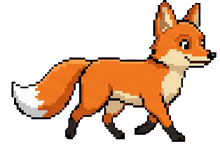
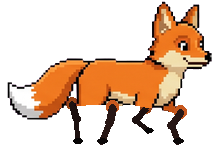
Fox walk: real gait via procedural IK legs (solves the parked paw-dance)
Months-long blocker fixed WITHOUT Fable 5. No image model can draw distinct gait
phases (the paw-dance) — so stop asking one. Keep the nano-banana fox body, erase
the frozen legs, and draw 4 legs procedurally with 2-bone IK: bending knees, feet
plant + push backward through stance then sin-arc swing, lateral-sequence phasing
(contacts 1/3/5/7, near-hind leads near-fore, far=near+4, >=2 feet always down).

- scripts/build_fox_walk.py: reproducible generator (reads img/fox-source.png ->
  writes img/fox-walk-1..8.png in cycle order); picked via a 4-approach workflow bake-off
- controller WALK array -> natural cycle order; all 8 frames verified distinct, read
  clean at 48px, 0 console errors
- docs/fox-walk-gait-spec.md: parked -> SOLVED

Changed region(s): [[0.0273, 0.0, 1.0, 1.0]]

diff --git a/index.html b/index.html
@@ -1241,7 +1241,7 @@ boot();
 /* ════════ fox: ambles along the top edge of the Home overview, sits at random, faces its direction ════════ */
 (function(){
   const fox=document.getElementById('fox'), img=document.getElementById('fox-img'); if(!fox||!img) return;
-  const WALK=['img/fox-walk-1.png','img/fox-walk-5.png','img/fox-walk-6.png','img/fox-walk-2.png','img/fox-walk-4.png','img/fox-walk-8.png','img/fox-walk-7.png','img/fox-walk-3.png'];  // 8-frame walk cycle from a single-generation sprite sheet (consistent body, no head-pop; registered bottom-center). Order chosen by min frame-to-frame change so legs flow contact→pass→opposite-contact→pass.
+  const WALK=['img/fox-walk-1.png','img/fox-walk-2.png','img/fox-walk-3.png','img/fox-walk-4.png','img/fox-walk-5.png','img/fox-walk-6.png','img/fox-walk-7.png','img/fox-walk-8.png'];  // REAL lateral-sequence walk: nano-banana body + 4 procedurally-drawn IK legs (bending knees, feet push back) per docs/fox-walk-gait-spec.md. Frames already in cycle order; regenerate via scripts/build_fox_walk.py.
   const SIT='img/fox-sit.png';   // frames are bottom-anchored + uniform size; gait is baked in, no JS lift (keeps feet planted)
   WALK.concat(SIT).forEach(s=>{const p=new Image();p.src=s;});        // preload all frames
   const reduce=matchMedia('(prefers-reduced-motion: reduce)').matches;

diff --git a/scripts/build_fox_walk.py b/scripts/build_fox_walk.py
@@ -1,0 +1,121 @@
+#!/usr/bin/env python3
+"""Generate the fox WALK cycle — 8 frames, real legs that actually move.
+
+The blocker for months: no image model (nano-banana, NB2) can draw distinct gait
+phases — every "frame" had near-identical legs => the "paw dance". The fix here:
+stop asking a model to draw the gait. Keep the gorgeous nano-banana fox BODY and
+draw the 4 legs procedurally per the verified gait spec (docs/fox-walk-gait-spec.md)
+with real 2-bone IK (law of cosines) so knees bend, feet plant + push backward
+through stance, then lift in a sin-arc swing.
+
+Gait (canid lateral-sequence walk): contacts at frames 1,3,5,7; near-hind LEADS
+near-fore by 2 frames (25% offset); far side = near side + 4 frames (50%); duty
+factor >0.5 so >=2 feet always down. Far legs drawn behind the body, near in front.
+
+Reproducible + idempotent: reads a PRISTINE source (img/fox-source.png) and writes
+img/fox-walk-1..8.png in CYCLE ORDER. Re-run anytime: `python3 scripts/build_fox_walk.py`.
+Originated from the Jun 26 2026 "fox-walk-approaches" workflow (drawnlegs won the bake-off).
+"""
+import os
+from PIL import Image, ImageDraw
+import numpy as np
+
+ROOT = os.path.dirname(os.path.dirname(os.path.abspath(__file__)))
+IMG  = os.path.join(ROOT, 'img')
+SRC  = os.path.join(IMG, 'fox-source.png')   # pristine full fox (legs get erased + redrawn from this)
+
+im = Image.open(SRC).convert('RGBA')
+W, H = im.size  # 220x146
+a = np.array(im)
+
+# ---- 1. Body without legs: erase below a curved belly cutoff (tail x<58 fully kept) ----
+anchors = [(0,146),(58,146),(60,108),(70,106),(100,104),(115,106),
+           (130,104),(150,108),(168,111),(179,114),(200,114),(220,114)]
+def cutoff(x):
+    for i in range(len(anchors)-1):
+        x0,y0=anchors[i]; x1,y1=anchors[i+1]
+        if x0<=x<=x1:
+            t=(x-x0)/(x1-x0) if x1>x0 else 0
+            return y0+(y1-y0)*t
+    return 114
+body = a.copy()
+for x in range(W):
+    cy=cutoff(x)
+    for y in range(H):
+        if y>cy and x>=58:
+            body[y,x]=[0,0,0,0]
+body_img = Image.fromarray(body)
+
+# ---- 2. Legs: 4 limbs, lateral-sequence phasing (contacts at frames 0,2,4,6 = 1,3,5,7) ----
+LEGS = {
+  'NH': dict(hx=112, hy=107, near=True,  contact=0),  # near hind  (leads near-fore by 2)
+  'NF': dict(hx=180, hy=112, near=True,  contact=2),  # near fore
+  'FH': dict(hx=72,  hy=104, near=False, contact=4),  # far hind   (= near hind + 4)
+  'FF': dict(hx=146, hy=108, near=False, contact=6),  # far fore   (= near fore + 4)
+}
+SHAFT=(40,23,21,255); SHAFT_FAR=(29,17,16,255)
+PAW=(12,8,8,255);     PAW_FAR=(7,5,5,255)
+THIGH=(199,88,30,255);THIGH_FAR=(152,67,23,255)
+GROUND=141; UPPER=16; LOWER=16; THICK=8; THICK_FAR=7
+REACH=9; PUSH=11; LIFT=12; NFRAMES=8
+
+def foot_pos(hx, hy, p):
+    stance_end=5/8
+    if p < stance_end:                       # stance: foot planted, translating BACKWARD
+        t=p/stance_end
+        return hx+REACH-(REACH+PUSH)*t, GROUND, True
+    t=(p-stance_end)/(1-stance_end)          # swing: lift in a sin arc, reach forward
+    return hx-PUSH+(REACH+PUSH)*t, GROUND-LIFT*np.sin(np.pi*t), False
+
+def draw_leg(draw, hx, hy, p, near):
+    fx,fy,_=foot_pos(hx,hy,p)
+    col=SHAFT if near else SHAFT_FAR
+    paw=PAW if near else PAW_FAR
+    thigh=THIGH if near else THIGH_FAR
+    th=THICK if near else THICK_FAR
+    thl=max(th-2,3)
+    L1,L2=UPPER,LOWER
+    dx,dy=fx-hx,fy-hy
+    d=np.hypot(dx,dy); d=min(d,L1+L2-0.5); d=max(d,abs(L1-L2)+0.5)
+    base=np.arctan2(dy,dx)
+    ca=max(-1,min(1,(L1*L1+d*d-L2*L2)/(2*L1*d)))
+    ang=np.arccos(ca)
+    sign=1 if hx<130 else -1                  # canid Z-bend: hind stifle vs fore elbow
+    ka=base-sign*ang
+    kx,ky=hx+L1*np.cos(ka), hy+L1*np.sin(ka)
+    tr=th/2+2
+    draw.ellipse([hx-tr,hy-tr-1,hx+tr,hy+tr],fill=thigh)   # orange blob masks the hip seam
+    draw.line([(hx,hy),(kx,ky)],fill=col,width=th)
+    draw.line([(kx,ky),(fx,fy)],fill=col,width=thl)
+    rr=th/2
+    draw.ellipse([hx-rr+1,hy-rr+1,hx+rr-1,hy+rr-1],fill=col)
+    draw.ellipse([kx-rr,ky-rr,kx+rr,ky+rr],fill=col)
+    rl=thl/2
+    draw.ellipse([fx-rl,fy-rl,fx+rl,fy+rl],fill=col)
+    pw=thl+2
+    draw.ellipse([fx-pw/2,fy-2.5,fx+pw/2+2,fy+2],fill=paw)
+
+frames=[]
+for f in range(NFRAMES):
+    canvas=Image.new('RGBA',(W,H),(0,0,0,0))
+    dd=ImageDraw.Draw(canvas)
+    for name in ('FH','FF'):                  # far legs behind body
+        lg=LEGS[name]; draw_leg(dd,lg['hx'],lg['hy'],((f-lg['contact'])%NFRAMES)/NFRAMES,lg['near'])
+    canvas.alpha_composite(body_img)
+    dd=ImageDraw.Draw(canvas)
+    for name in ('NH','NF'):                  # near legs in front
+        lg=LEGS[name]; draw_leg(dd,lg['hx'],lg['hy'],((f-lg['contact'])%NFRAMES)/NFRAMES,lg['near'])
+    frames.append(canvas)
+
+# ---- 3. write the 8 frames into the app (cycle order) ----
+for i,fr in enumerate(frames,1):
+    fr.save(os.path.join(IMG,f'fox-walk-{i}.png'))
+
+# ---- 4. reference strip for docs ----
+GRAY=(90,96,90,255)
+strip=Image.new('RGBA',(W*NFRAMES, H+18),GRAY)
+sd=ImageDraw.Draw(strip)
+for i,fr in enumerate(frames):
+    strip.alpha_composite(fr,(i*W,18)); sd.text((i*W+4,4),str(i+1),fill=(255,255,255,255))
+strip.convert('RGB').save(os.path.join(ROOT,'docs','fox-walk-frames.png'))
+print(f'wrote {NFRAMES} frames to {IMG}/fox-walk-1..8.png + docs/fox-walk-frames.png')

diff --git a/HANDOFF.md b/HANDOFF.md
@@ -5,6 +5,14 @@ Resume command: `/ai`. Local: `localhost:8095`. Full design: [ARCHITECTURE.md](A
 
 ## State — Jun 26 2026
 
+### ✓ DONE (Jun 26, session 31) — FOX WALK SOLVED (the months-long parked blocker) — SHIPPED
+The walk gait is fixed — **without** Fable 5. **The unlock: stop asking an image model to draw the gait.**
+- Picked via an ultracode **workflow bake-off** (`wf_834399e1-063`, 9 agents): 4 distinct approaches each built a real 8-frame walk strip + got adversarially graded vs `docs/fox-walk-gait-spec.md`. Ranked: **drawnlegs 8.2 (winner)**, cutoutrig 7.4, codepixel 6.3 (clean gait but crude code-drawn body = the look he rejected), **stylized 2.5 DROPPED (confirmed paw-dance — the bug itself)**. I viewed every strip to verify the ranking before acting.
+- **Winner = "drawnlegs":** keep the gorgeous nano-banana fox BODY, erase the (frozen) legs along a tuned belly cutoff, and draw 4 legs **procedurally** — real 2-bone law-of-cosines **IK** (knees/elbows bend), feet plant + push BACKWARD through stance then lift in a sin-arc swing, correct lateral-sequence phasing (contacts 1/3/5/7, near-hind leads near-fore by 2, far = near +4, ≥2 feet always down), far legs behind body / near in front for depth.
+- **Reproducible:** `scripts/build_fox_walk.py` reads pristine `img/fox-source.png` (a saved copy of the clean fox) → writes `img/fox-walk-1..8.png` in cycle order + `docs/fox-walk-frames.png` reference strip. Re-run anytime. All 8 frames verified DISTINCT (no paw-dance), load with 0 console errors, and read cleanly at the true 48px display size (checked).
+- **Controller:** `WALK` array now plays the 8 frames in natural cycle order (was a scrambled order that hid the old frames' jitter). The existing distance-locked stepping / bottom-anchor / flip / sit logic is unchanged — it just got correct frames. Motion can't be seen in the headless preview (rAF pauses when hidden) but plays on a real device.
+- **`docs/fox-walk-gait-spec.md` updated** from "parked, build when Fable 5 returns" → "SOLVED via procedural IK". Supersedes the [[reference_nanobanana_no_gait]] "wait for a stronger model" conclusion — we solved it with code, not a model.
+
 ### ✓ DONE (Jun 23–26, session 30) — Predict/Radar All·Frontier·Open filter · schedule 4×→8×/day (every 3h) — SHIPPED
 - **Predict → Radar got an All / Frontier / Open-source segmented filter** (`.seg` in the radar panel, wired into the existing seg handler as `which==='radar'`). Frontier = `frontier:true` items (7); Open-source = open-weight labs (`OPEN_REL_LABS` = DeepSeek/Alibaba/Zhipu/Moonshot/NVIDIA/Meta) → 4; a frontier-tier open model (DeepSeek V5) shows in BOTH (classified by open-ness, like Current). Hero adapts ("Next frontier drop" / "Next open-source drop"). Lab-inferred so new sweep items auto-classify — no data/prompt change. Verified all 3 modes @375px, fits, 0 errors.
 - **Schedule bumped 4×/day → 8×/day, every 3h** (12AM/3AM/6AM/9AM/12PM/3PM/6PM/9PM ET) at his explicit call. I flagged it as marginal (the frontier rarely moves intraday + launchd already catch-up-fires at wake, so it's mostly more empty sweeps) — he wanted it live anyway; no $ since `claude -p` is Max-covered. Redid the slot labels **4→8** so the Sources log doesn't clobber: `merge.py routine_of(h)=["12AM","3AM","6AM","9AM","12PM","3PM","6PM","9PM"][(h//3)%8]`; `index.html` RORD got the 8 keys for sort. plist = 8 `StartCalendarInterval` entries, reinstalled + reloaded (`launchctl print` shows 8 Hour intervals). Swept all "4×/day"/slot refs across ARCHITECTURE/research-prompt/data-notes/build_data/memory. merge.py compiles, buckets unit-tested.

diff --git a/docs/fox-walk-gait-spec.md b/docs/fox-walk-gait-spec.md
@@ -1,10 +1,18 @@
-# Fox walk-cycle gait spec (for the future rebuild)
+# Fox walk-cycle gait spec
+
+> **STATUS: SOLVED — Jun 26 2026.** Implemented in `scripts/build_fox_walk.py`, NOT by
+> waiting for Fable 5. The unlock: stop asking an image model to draw the gait at all —
+> keep the nano-banana fox BODY and draw the 4 legs **procedurally** (2-bone law-of-cosines
+> IK, bending knees, feet plant + push back, lateral-sequence phasing per this spec). Picked
+> via the Jun 26 "fox-walk-approaches" workflow bake-off (4 approaches built + adversarially
+> graded; "drawnlegs" won). Regenerate the frames anytime: `python3 scripts/build_fox_walk.py`
+> (reads pristine `img/fox-source.png` → writes `img/fox-walk-1..8.png` in cycle order).
+> The spec below is what the code implements.
 
 Distilled from a deep-research pass (Jun 20 2026) — verified against peer-reviewed
 biomechanics (Cartmill et al. 2002; Usherwood eLife 2017) + animation craft
 (Williams' *Animator's Survival Kit*, Game Developer / AnimSchool / Slynyrd) +
-Muybridge. Use this to build the walk **when Fable 5 returns** (current nano-banana /
-NB2 CANNOT draw distinct gait phases — see HANDOFF "fox walk parked").
+Muybridge.
 
 ## The gait (a fox = canid = lateral-sequence symmetrical walk)
 
